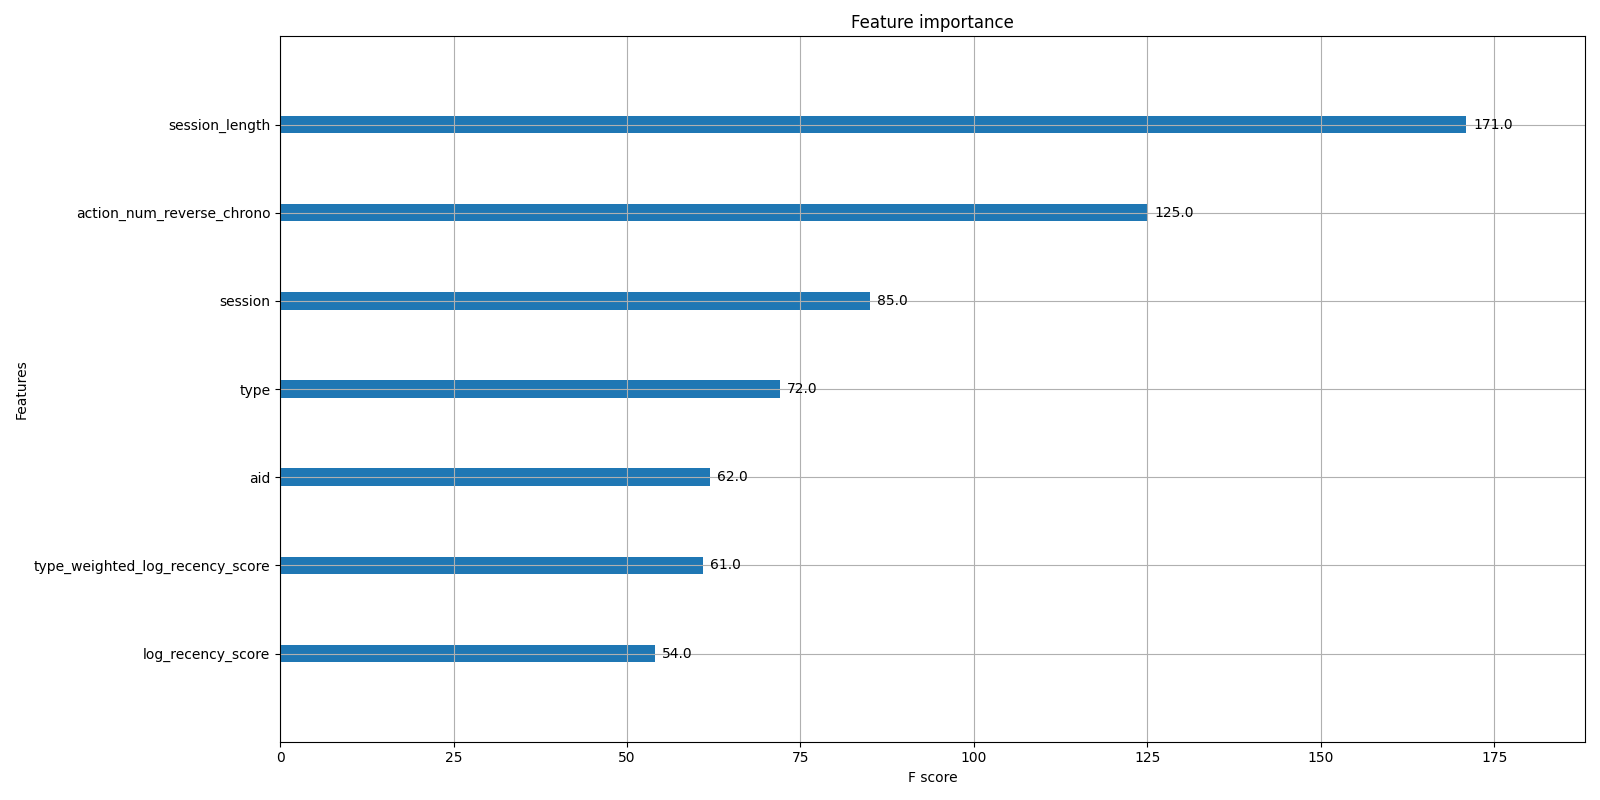
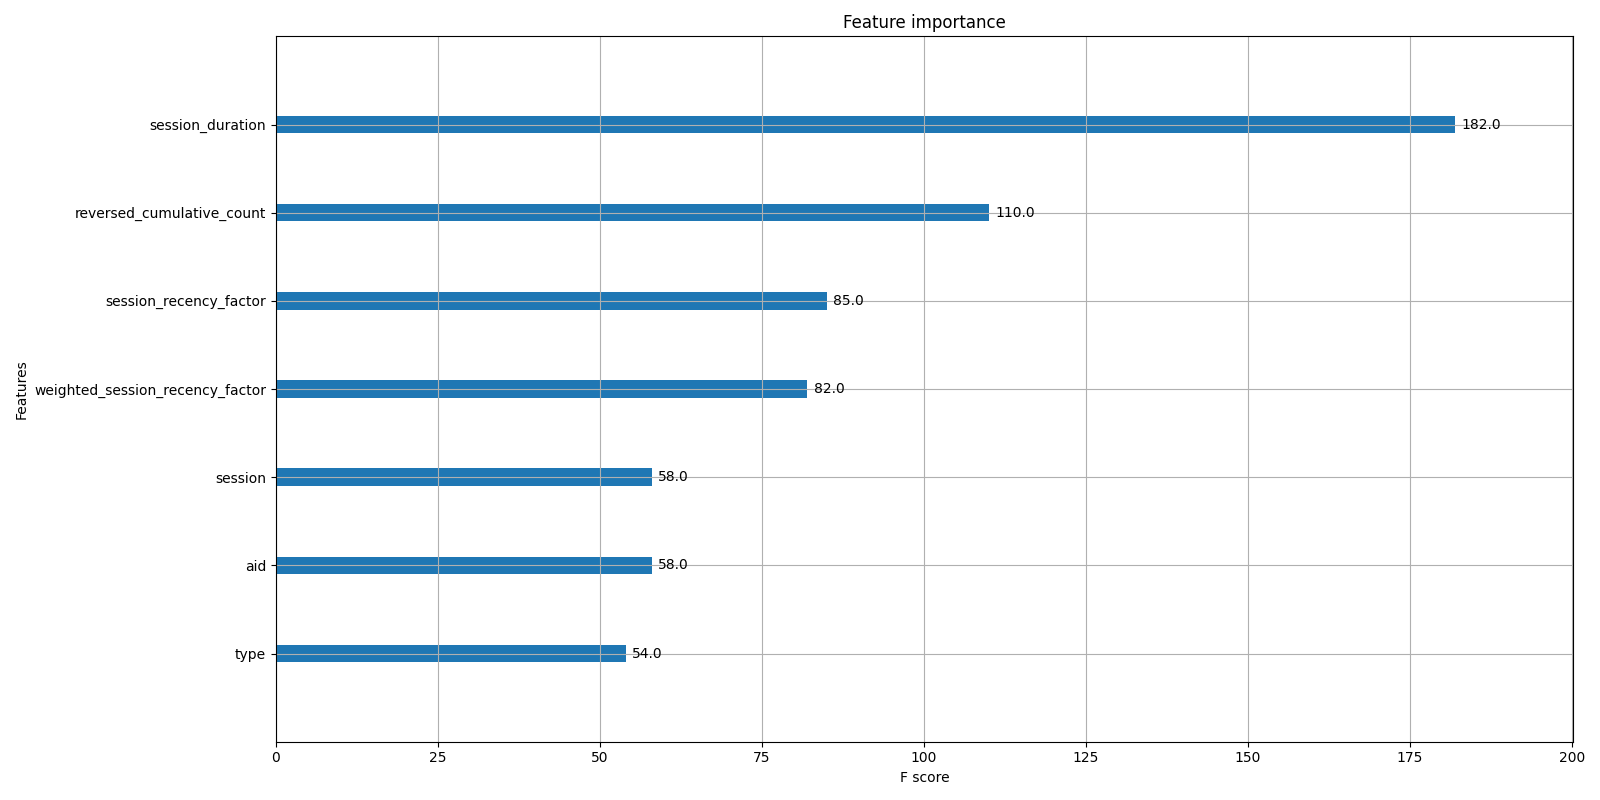
Add code for XGBoost Ranker Model

diff --git a/process/XGBoost/xgb_ranker.py b/process/XGBoost/xgb_ranker.py
@@ -1,0 +1,155 @@
+import matplotlib.pyplot as plt
+from merlin.core.utils import Distributed
+from merlin.models.xgb import XGBoost
+from merlin.schema.tags import Tags
+from nvtabular import *
+from nvtabular.ops import AddTags
+import polars as pl
+import xgboost as xgb
+
+import helpers
+
+
+def preprocess_data(df, transformations):
+    """Apply a list of transformations to a DataFrame."""
+    for transform in transformations:
+        df = transform(df)
+    return df
+
+
+def load_and_preprocess_data(pipeline):
+    """Load and preprocess train and label data."""
+    train_data = pl.read_parquet('../../test/resources/test.parquet')
+    train_labels = pl.read_parquet('../../test/resources/test_labels.parquet')
+    train_data = preprocess_data(train_data, pipeline)
+
+    return train_data, train_labels
+
+
+def convert_labels(df):
+    """Converts the labels to appropriate format."""
+    id_by_type = {"clicks": 0, "carts": 1, "orders": 2}
+
+    df = df.explode('ground_truth').with_columns([
+        pl.col('ground_truth').alias('aid'),
+        pl.col('type').apply(lambda x: id_by_type[x])
+    ])[['session', 'type', 'aid']]
+
+    df = df.with_columns([
+        pl.col('session').cast(pl.datatypes.Int32),
+        pl.col('type').cast(pl.datatypes.UInt8),
+        pl.col('aid').cast(pl.datatypes.Int32)
+    ])
+
+    return df.with_columns(pl.lit(1).alias('gt'))
+
+
+def build_model(train, labels):
+    """Train the model on the given train data and labels."""
+    train_labels = convert_labels(labels)
+
+    train = train.join(train_labels, how='left', on=[
+                       'session', 'type', 'aid']).with_columns(pl.col('gt').fill_null(0))
+
+    data_set = Dataset(train.to_pandas())
+
+    feature_cols = ['aid', 'type', 'session_duration', 'reversed_cumulative_count',
+                    'session_recency_factor', 'weighted_session_recency_factor']
+    target_col = ['gt'] >> AddTags([Tags.TARGET])
+    id_col = ['session'] >> AddTags([Tags.USER_ID])
+
+    wf = Workflow(feature_cols + target_col + id_col)
+    train_processed = wf.fit_transform(data_set)
+
+    # You can also modify the objective to use MAP or pairwise ranking instead
+    ranker = XGBoost(train_processed.schema, objective='rank:ndcg')
+
+    with Distributed():
+        ranker.fit(train_processed)
+
+    return ranker, wf
+
+
+def plot_feature_importance(ranker):
+    """Plot feature importance of the trained model."""
+    ranker.booster.save_model('xgb_model.json')
+    bst = xgb.Booster()
+    bst.load_model('xgb_model.json')
+
+    fig, ax = plt.subplots(figsize=(16, 8))
+    xgb.plot_importance(bst, ax=ax)
+    plt.tight_layout()
+    plt.savefig('feature_importance.png')
+
+
+def make_predictions(ranker, wf, pipeline):
+    """Make predictions on test data and create a submission file."""
+    test_data = pl.read_parquet('../../test/resources/test_full.parquet')
+    test_data = preprocess_data(test_data, pipeline)
+    data_set = Dataset(test_data.to_pandas())
+
+    wf = wf.remove_inputs(['gt'])
+    test_processed = wf.transform(data_set)
+
+    test_preds = ranker.booster.predict(
+        xgb.DMatrix(test_processed.compute()))
+
+    test_data = test_data.with_columns(
+        pl.Series(name='score', values=test_preds))
+
+    test_predictions = test_data.sort(['session', 'score'], descending=True).groupby('session').agg([
+        pl.col('aid').apply(list).alias('aid_list')
+    ])
+
+    test_predictions = test_predictions.with_columns(
+        pl.col('aid_list').apply(lambda x: x[:20] if len(x) > 20 else x)
+    )
+
+    return test_predictions
+
+
+def create_submission_file(test_predictions):
+    """Create a submission file from the test predictions and sort."""
+    session_types = []
+    labels = []
+
+    for session, preds in zip(test_predictions['session'].to_numpy(), test_predictions['aid_list'].to_numpy()):
+        aid = ' '.join(str(pred) for pred in preds)
+        for session_type in ['clicks', 'carts', 'orders']:
+            labels.append(aid)
+            session_types.append(f'{session}_{session_type}')
+
+    submission = pl.DataFrame(
+        {'session_type': session_types, 'labels': labels})
+
+    submission = submission.with_columns([
+        submission['session_type'].apply(lambda x: int(
+            x.split('_')[0]), return_dtype=pl.Int64).alias('session_num'),
+        submission['session_type'].apply(
+            lambda x: x.split('_')[1]).alias('session_action')
+    ])
+
+    action_order = {'clicks': 0, 'carts': 1, 'orders': 2}
+
+    submission = submission.with_columns([
+        submission['session_action'].apply(
+            lambda x: action_order[x]).alias('action_order')
+    ])
+    submission = submission.sort(['session_num', 'action_order'])
+    submission = submission.drop(
+        ['session_num', 'action_order', 'session_action'])
+
+    submission.write_csv('predictions.csv')
+
+
+def main():
+    pipeline = helpers.get_pipeline()
+    train_data, train_labels = load_and_preprocess_data(pipeline)
+    ranker, workflow = build_model(train_data, train_labels)
+    plot_feature_importance(ranker)
+    predictions = make_predictions(ranker, workflow, pipeline)
+    create_submission_file(predictions)
+
+
+if __name__ == "__main__":
+    main()

diff --git a/process/XGBoost/helpers.py b/process/XGBoost/helpers.py
@@ -1,0 +1,28 @@
+import polars as pl
+
+
+def append_reversed_cumulative_count(df):
+    return df.with_columns(
+        pl.col('session').cumcount().reverse().over('session').alias('reversed_cumulative_count'))
+
+
+def append_session_duration(df):
+    return df.with_columns(pl.col('session').count().over('session').alias('session_duration'))
+
+
+def append_session_recency_factor(df):
+    interpolated_linearly = 0.1 + (0.9 / (df['session_duration'] - 1)) * (
+        df['session_duration'] - df['reversed_cumulative_count'] - 1)
+    return df.with_columns(pl.Series(2**interpolated_linearly - 1).alias('session_recency_factor')).fill_nan(1)
+
+
+def append_weighted_session_recency_factor(df):
+    type_weights = {0: 1, 1: 6, 2: 3}
+    weighted_score = pl.Series(df['type'].apply(
+        lambda x: type_weights[x]) * df['session_recency_factor'])
+    return df.with_columns(weighted_score.alias('weighted_session_recency_factor'))
+
+
+def get_pipeline():
+    return [append_reversed_cumulative_count, append_session_duration,
+            append_session_recency_factor, append_weighted_session_recency_factor]
